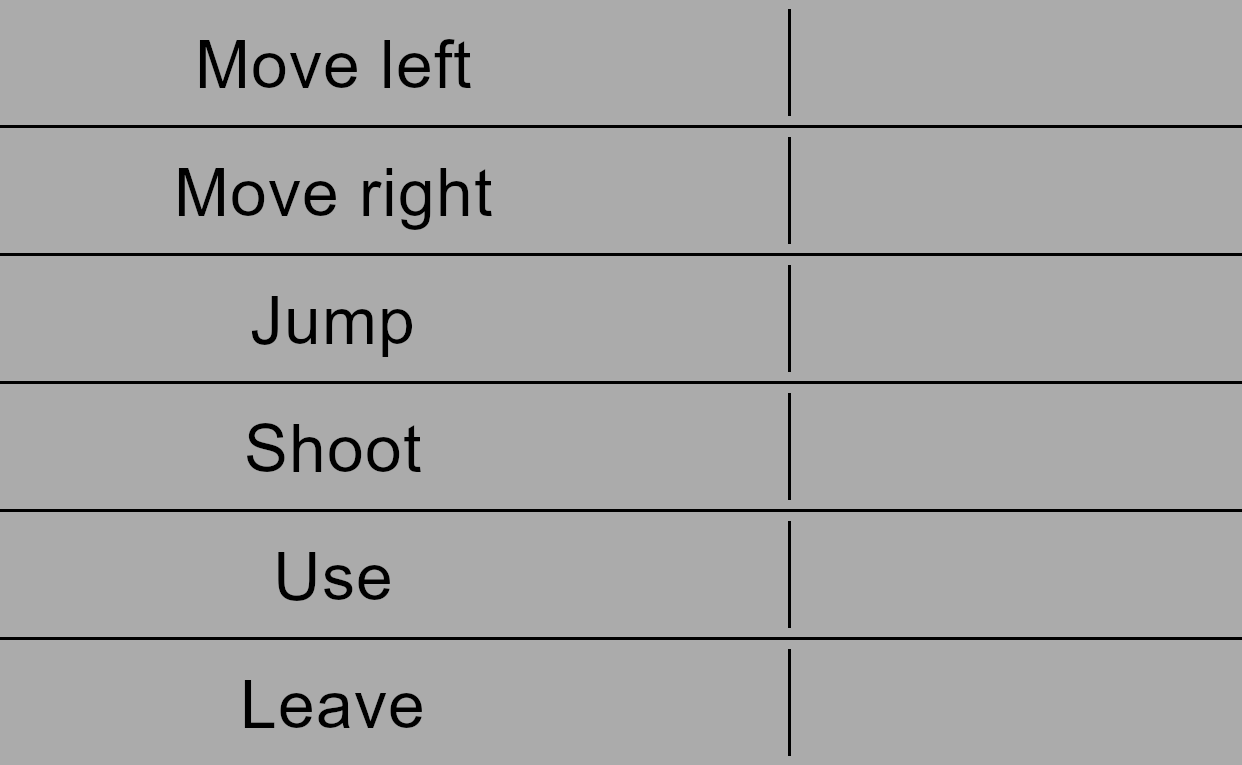
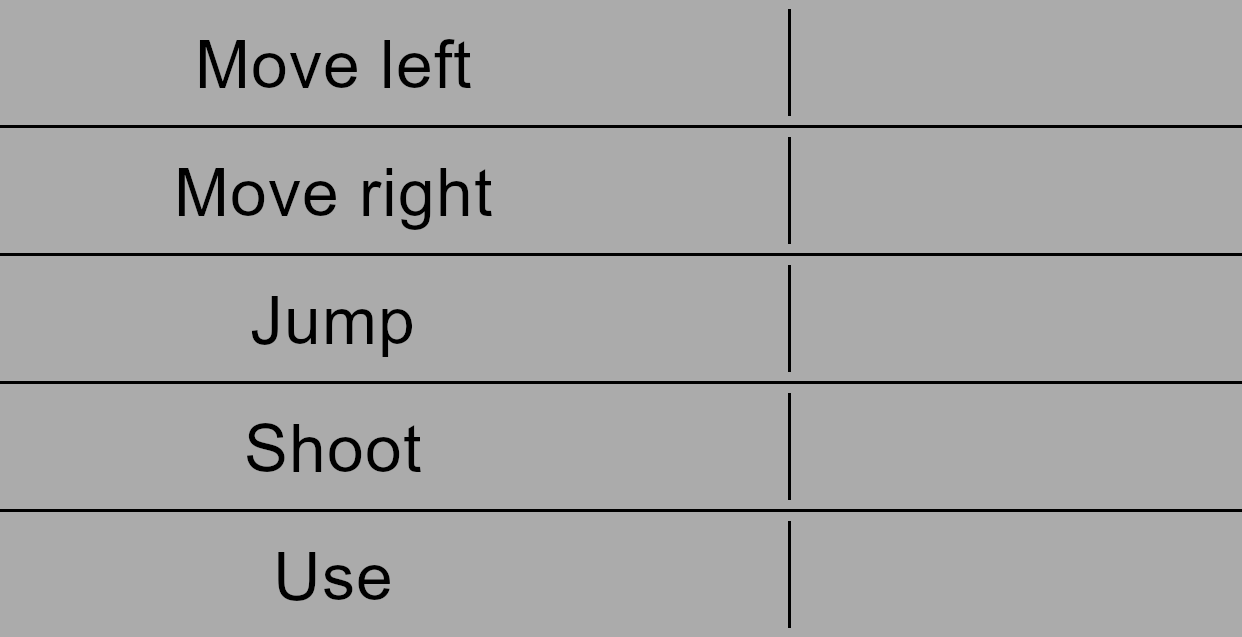
[MENUS] Suppression de du parametre leave

diff --git a/src/fr/state/menu/page/MenuControls.java b/src/fr/state/menu/page/MenuControls.java
@@ -53,15 +53,13 @@ public class MenuControls implements MenuPage {
 	private static final String PARAM_NAME_JUMP = "jump";
 	private static final String PARAM_NAME_SHOOT = "shoot";
 	private static final String PARAM_NAME_USE = "use";
-	private static final String PARAM_NAME_LEAVE = "leave";
 
 	private static final String[] PARAM_NAMES = {
 			PARAM_NAME_LEFT,
 			PARAM_NAME_RIGHT,
 			PARAM_NAME_JUMP,
 			PARAM_NAME_SHOOT,
-			PARAM_NAME_USE,
-			PARAM_NAME_LEAVE, };
+			PARAM_NAME_USE, };
 
 	private static final int SPACE_BETWEEN_INPUTS = 128;
 	private static final int INPUT_POS_X = 874;
@@ -249,13 +247,13 @@ public class MenuControls implements MenuPage {
 
 		sc.setPos(new Point(339, 343));
 		sc.setSize(new Point(1242, 637));
-		sc.setMaxScroll(128);
+		sc.setMaxScroll(0);
 		sc.setScrollStep(30);
 		sc.setDrawAdvanced(true);
 		sc.setPaddingBottom(0);
 		sc.setPaddingTop(0);
 		sc.setPaddingSide(0);
-		sc.setDisplayScrollBar(true);
+		sc.setDisplayScrollBar(false);
 		sc.setSliderLeftSide(true);
 		sc.setScrollBarColor(new Color(150, 150, 150));
 		DERectangle rect = sc.getDefaultSlider();
